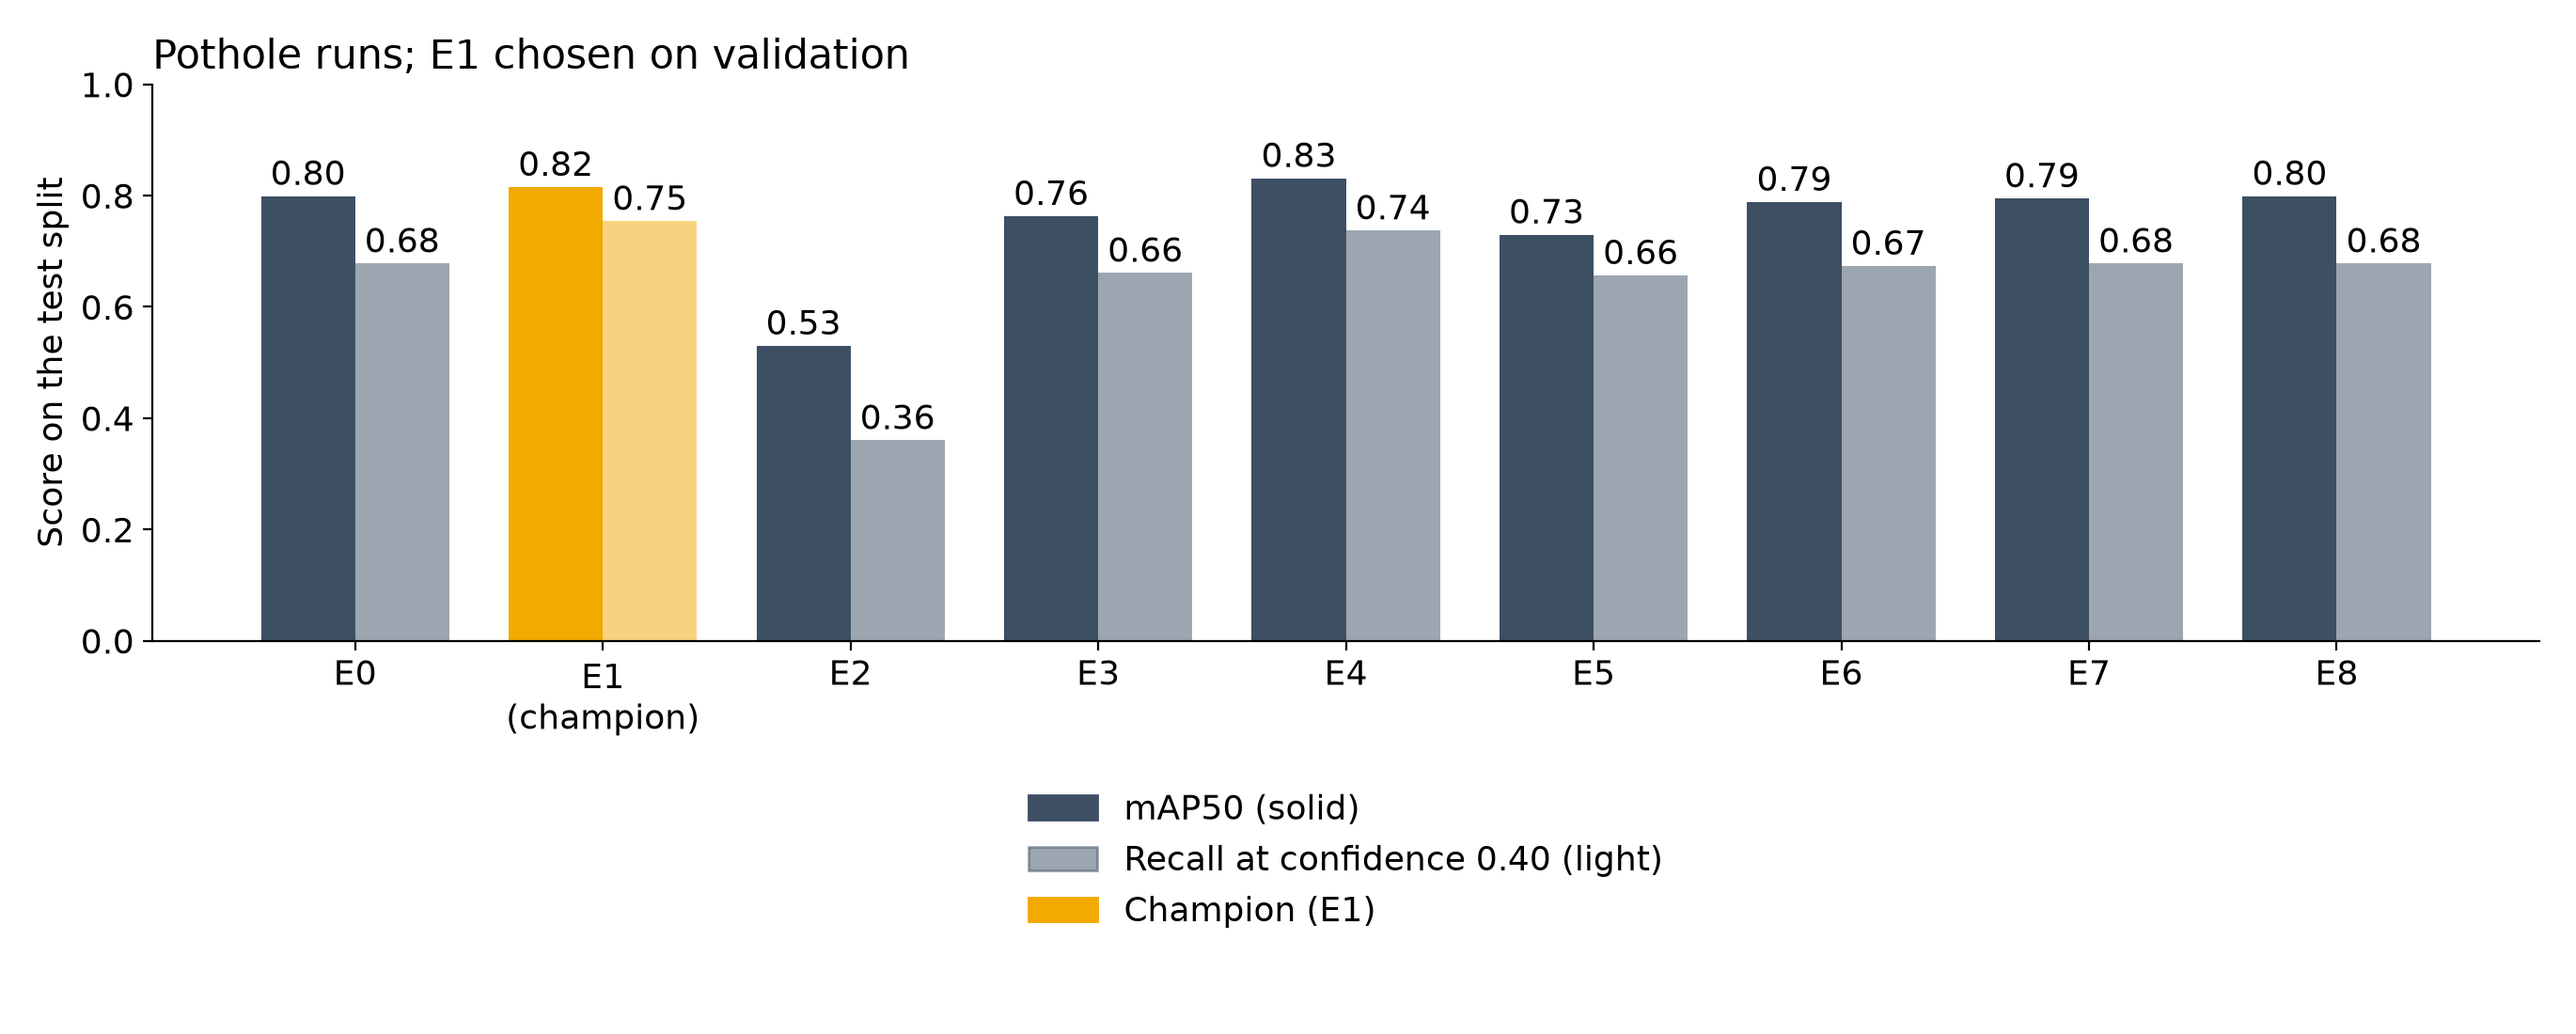
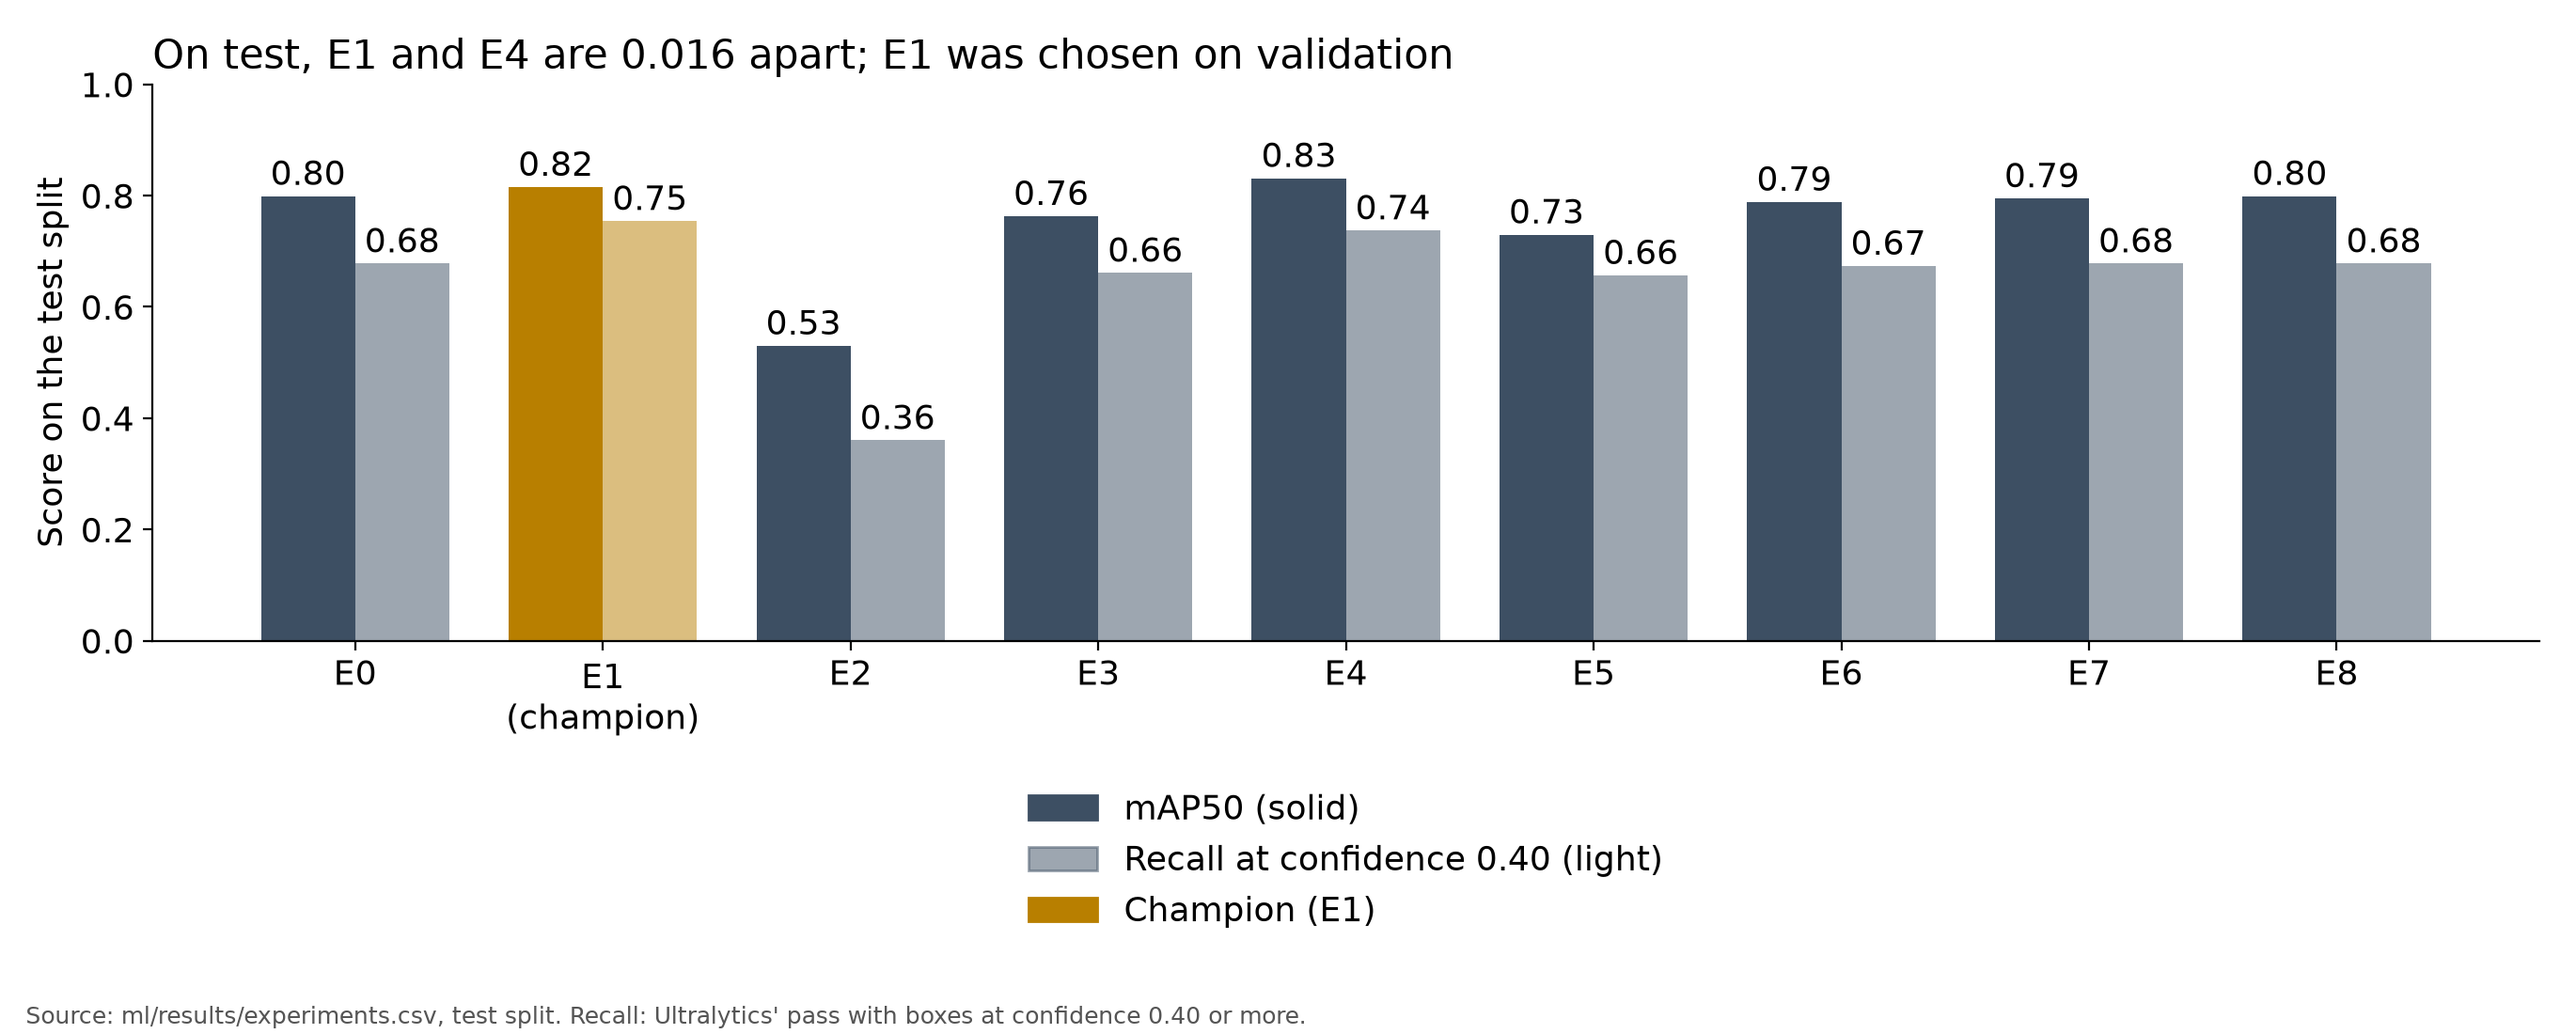
Answer the deck critique: plots use the chart highlight colour and a title that matches the bars; sample images wording

diff --git a/ml/plots.py b/ml/plots.py
@@ -25,7 +25,7 @@ import matplotlib.pyplot as plt
 
 RESULTS = Path("ml/results")
 RUN_COLOUR = "#3d4f63"  # --chart-1
-CHAMPION_COLOUR = "#f2a900"  # --accent
+CHAMPION_COLOUR = "#b87f00"  # chart highlight (chart-style.md): the brand amber #f2a900 is 2.01:1 on white
 CURVE_RUNS = ("E0", "E2", "E5")
 
 plt.rcParams.update({"font.size": 13, "axes.spines.top": False, "axes.spines.right": False})
@@ -55,8 +55,18 @@ def runs_figure() -> None:
     if champion in ids:
         legend.append(Patch(color=CHAMPION_COLOUR, label=f"Champion ({champion})"))
     ax.legend(handles=legend, frameon=False, loc="upper center", bbox_to_anchor=(0.5, -0.22), ncol=1)
-    title = f"{ids[0]} is the only run so far" if len(ids) == 1 else f"Pothole runs; {champion} chosen on validation"
+    # Title states the takeaway and never contradicts the bars: name the best test run when it is not the champion.
+    best = ids[max(range(len(ids)), key=lambda i: map50[i])]
+    if len(ids) == 1:
+        title = f"{ids[0]} is the only run so far"
+    elif best == champion:
+        title = f"{champion}, chosen on validation, also has the highest test mAP50"
+    else:
+        gap = map50[ids.index(best)] - map50[ids.index(champion)]
+        title = f"On test, {champion} and {best} are {gap:.3f} apart; {champion} was chosen on validation"
     ax.set_title(title, loc="left")
+    fig.text(0.01, 0.01, "Source: ml/results/experiments.csv, test split. Recall: Ultralytics' pass with boxes at confidence 0.40 or more.",
+             fontsize=9, color="#555555")
     fig.tight_layout()
     fig.savefig(RESULTS / "fig_runs_map50_recall.png", dpi=200)
     plt.close(fig)

diff --git a/docs/PRESENTATION.md b/docs/PRESENTATION.md
@@ -178,7 +178,7 @@ Every example below was checked in the running app on 11 November, and every lec
 1. **Three heuristics, each with a page to open** (Nielsen's ten are HCI p13; one slide each on p14–23).
    - *Visibility of system status* (HCI p14). The sidebar always shows the provider (Mock, Local or Cloud). While a photo runs, the button says "Analysing…" and a line scans the photo. Settings → Model provider → **Check connection** says "Connected" or why not. Open: `/app/settings`.
    - *Help users recognise, diagnose and recover from errors* (HCI p22). With Local chosen and the model service off, Compare says "The local model service is not running or cannot be reached", how to start it, and offers **Try again** or **Use the mock provider**. One click on the second gives a result. Open: `/app/restrooms/compare`.
-   - *Recognition rather than recall* (HCI p19). Analyze shows six labelled sample photos ("Highway, three potholes", "Faint damage, needs review"…), and the accepted formats sit next to the upload box, so nobody has to remember what to upload. Open: `/app/roads/analyze`.
+   - *Recognition rather than recall* (HCI p19). Analyze shows six labelled sample images ("Highway, three potholes", "Faint damage, needs review"…), and the accepted formats sit next to the upload box, so nobody has to remember what to upload. Open: `/app/roads/analyze`.
    - Spare: *Error prevention* (HCI p18). The file is checked before upload: JPEG, PNG or WebP, at most 10 MB (`web/lib/upload.ts`).
 2. **Contrast and accessibility.**
    - **Contrast:** I measured the contrast of every text colour from the tokens with the WCAG formula, in both themes. WCAG asks for 4.5:1 for text (HCI p37). Our weakest text colour, `subtle`, is 4.98:1 in light and 5.36:1 in dark, and main text is at least 14.4:1. The table is in DESIGN-BRIEF.md.
@@ -207,7 +207,7 @@ Every example below was checked in the running app on 11 November, and every lec
 - **Three screenshots**, one frame each (570×405 px, light theme, kept outside the repository and sent to the deck folder), each with one line:
   1. `09-heuristic-1-status.png`: "Visibility of system status: the provider and its connection are always shown."
   2. `09-heuristic-2-recover.png`: "Error recovery: the cause in plain words and a one-click switch to Mock."
-  3. `09-heuristic-3-recognition.png`: "Recognition over recall: six labelled sample photos next to the upload box."
+  3. `09-heuristic-3-recognition.png`: "Recognition over recall: six labelled sample images next to the upload box."
 - **Chart line:** "Bars from zero for counts, a histogram for confidence, severity colours only for severity."
 - **Accessibility line:** "Text contrast at least 4.98:1 in both themes (WCAG: 4.5:1); keyboard-only analysis with a visible focus ring; every status with a word and an icon."
 - **Speaker notes, sources:** HCI p14, p19 and p22 for the three heuristics; HCI p37 for WCAG; VizBasics p4, DMViz p28 and p31 for the charts.

diff --git a/docs/AI-USAGE-LOG.md b/docs/AI-USAGE-LOG.md
@@ -707,3 +707,13 @@ Never paste into an AI tool: photos with faces or licence plates, other people's
   - Did not hide the pause button with conditional markup (hydration mismatch); CSS hides it instead.
   - Did not touch the chart files or the count-up rendering, which other tasks edit today.
   - A first test of the sign demo failed because it sits in a closed `<details>`; the test now opens it first.
+
+### 11 November 2026, Tair (deck: answer to Dameli's G-58 critique)
+
+- **Tool and version:** Claude Code (Claude Opus 5.5) in the Claude desktop app, the same sub-agent that built the deck draft.
+- **Purpose:** fix the must-fix items of `docs/design/deck-critique.md`: text sizes, charts at slide size, colours from the tokens, gaps off the slide faces.
+- **Key prompt(s), with a link to the transcript:** "fix every must-fix item that can be fixed from the repository; keep every honesty check". Transcript kept locally.
+- **What it produced or changed:** `docs/deck/make_deck.py`, the rebuilt deck, `docs/deck/CRITIQUE-RESPONSE.md`; I changed the champion colour and the figure title in `ml/plots.py` and "sample photos" to "sample images" in PRESENTATION.md.
+- **How I verified it, and who verified it:** rendered every slide and looked at it; the build still stops on any number that differs from its file and on text under 14 pt; `ml/check_results.py` passes. Dameli checks the response table.
+- **What I rejected or corrected:** the highlight on slide 8 stays partial, because highlighting one restroom run would decide the headline that Nazar has not confirmed.
+
